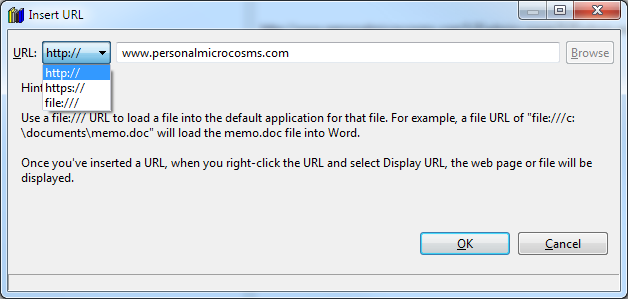
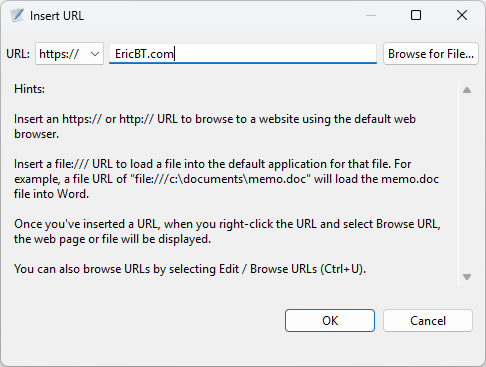
Minor bug fixes, many updates to on-line help

diff --git a/Java Vault/Vault/Help/whatisvault3.html b/Java Vault/Vault/Help/whatisvault3.html
@@ -14,15 +14,15 @@
 	</p>
 	<p>
 		Vault 3 is:
-		<ul>
-			<li><strong>User-Friendly:</strong> Intuitive GUIs make it easy to use Vault 3's features. A comprehensive on-line help system covers all of Vault 3's features.</li>
-			<li><strong>Portable:</strong> Vault 3 currently runs on 64-bit Windows operating systems (Intel/AMD & ARM), 64-bit Linux GTK operating systems (Intel/AMD & ARM), and Android.</li>
-			<li><strong>Fast:</strong> Even on relatively low-performance hardware such as netbook computers.</li>
-			<li><strong>Secure:</strong> Password-protected documents are <a href="encryption.html">encrypted</a> with the AES algorithm and 256-bit keys.</li>
-			<li><strong>Standards-Compliant:</strong> Documents are stored in Unicode format and can be imported and exported in XML format.</li>
-			<li><strong>Open Sourced:</strong> Licensed under the <a href="licenseterms.html">GNU GPL</a>.</li> 
-		</ul>
 	</p>
+	<ul>
+		<li><strong>User-Friendly:</strong> Intuitive GUIs make it easy to use Vault 3's features. A comprehensive on-line help system covers all of Vault 3's features.</li>
+		<li><strong>Portable:</strong> Vault 3 currently runs on 64-bit Windows operating systems (Intel/AMD & ARM), 64-bit Linux GTK operating systems (Intel/AMD & ARM), and Android.</li>
+		<li><strong>Fast:</strong> Even on relatively low-performance hardware such as netbook computers.</li>
+		<li><strong>Secure:</strong> Password-protected documents are <a href="encryption.html">encrypted</a> with the AES algorithm and 256-bit keys.</li>
+		<li><strong>Standards-Compliant:</strong> Documents are stored in Unicode format and can be imported and exported in XML format.</li>
+		<li><strong>Open Sourced:</strong> Licensed under the <a href="licenseterms.html">GNU GPL</a>.</li>
+	</ul>
 	<p>
 		Vault 3 is developed and maintained by Eric Bergman-Terrell, <a href="https://www.EricBT.com">www.EricBT.com</a>.
 	</p>

diff --git a/Java Vault/Vault/Help/gettingstarted.html b/Java Vault/Vault/Help/gettingstarted.html
@@ -36,6 +36,7 @@
 	<h3>Expanding and Contracting Outline Items</h3>
 		<p>
 		Items in the outline window can be expanded and contracted in several ways:
+		</p>
 		<ul>
 			<li>Click the triangle or plus/minus graphic to the left of an outline item's text</li>
 			<li>Type the left and right arrow keys</li>
@@ -44,7 +45,6 @@
 			or click the <img src="artwork/expand.png" alt="Expand toolbar button" />  and
 			<img src="artwork/collapse.png" alt="Collapse toolbar button" /> toolbar buttons.
 		</ul>
-		</p>
 	<h3>Adding and Deleting Outline Items</h3>
 		<p>
 		To add new outline items, click the Add toolbar button <img src="artwork/add.png" alt="add outline item toolbar button" />, or
@@ -63,9 +63,9 @@
 		</p>
 	<h3>Cutting, Pasting, and Copying Outline Items</h3>
 		<p>
-		To cut, paste, and copy outline items, select the <a href="OutlineActions_CutOutlineItemAction.html">Outline / Cut</a>,
-		<a href="OutlineActions_CopyOutlineItemAction.html">Outline / Copy</a>, and 
-		<a href="OutlineActions_PasteOutlineItemAction.html">Outline / Paste</a> menu items, or click the 
+		To cut, paste, and copy outline items, select the <a href="OutlineActions_CutAction.html">Outline / Cut</a>,
+		<a href="OutlineActions_CopyAction.html">Outline / Copy</a>, and
+		<a href="OutlineActions_PasteAction.html">Outline / Paste</a> menu items, or click the
 		<img src="artwork/cut.png" alt="Cut outline item toolbar button" />, 
 		<img src="artwork/copy.png" alt="Copy outline item toolbar button" />, and 
 		<img src="artwork/paste.png" alt="Paste outline item toolbar button" /> toolbar buttons.

diff --git a/Java Vault/Vault/Help/Dialogs_InsertUrlDialog.html b/Java Vault/Vault/Help/Dialogs_InsertUrlDialog.html
@@ -19,10 +19,10 @@
 				URL:
 			</div>
 			<div class="DialogFieldText">
-				Select the kind of URL to insert. The choices are: http:// (web page), https:// (secure web page) and file:/// (disk file).
+				Select the kind of URL to insert. The choices are: https:// (secure web page), http:// (web page) and file:/// (disk file).
 			</div>
 			<div class="DialogFieldLabel">
-				Browse
+				Browse for File
 			</div>
 			<div class="DialogFieldText">
 				Press this button to browse for a file.
@@ -42,7 +42,7 @@
 		</div>
 		<div class="SeeAlsoTitle">See Also:</div>
 		<div class="SeeAlso">
-			<a class="SeeAlsoLink" href="TextActions_DisplayURLAction.html">Edit / Browse URL</a>
+			<a class="SeeAlsoLink" href="TextActions_DisplayUrlAction.html">Edit / Browse URL</a>
 			<a class="SeeAlsoLink" href="TextActions_GoToWebsitesAction.html">Edit / Browse URLs</a>
 		</div>
 	</body>

diff --git a/Java Vault/Vault/Help/Dialogs_FindDialog.html b/Java Vault/Vault/Help/Dialogs_FindDialog.html
@@ -25,13 +25,13 @@
 				Match whole word only
 			</div>
 			<div class="DialogFieldText">
-				Check this check box to match on full words. If this box is checked and you search for "run", text like "running" and "runs" will not be found. 
+				Check this check box to match on full words. If this box is checked, and you search for "run", text like "running" and "runs" will not be found.
 			</div>
 			<div class="DialogFieldLabel">
 				Match case
 			</div>
 			<div class="DialogFieldText">
-				Check this check box for case-sensitive searching. If this box is checked and you search for "run", text like "Run" and "RUN" will not be found.
+				Check this check box for case-sensitive searching. If this box is checked, and you search for "run", text like "Run" and "RUN" will not be found.
 			</div>
 			<div class="DialogFieldLabel">
 				Up

diff --git a/Java Vault/Vault/Help/Dialogs_ReplaceDialog.html b/Java Vault/Vault/Help/Dialogs_ReplaceDialog.html
@@ -31,13 +31,13 @@
 				Match whole word only
 			</div>
 			<div class="DialogFieldText">
-				Check this check box to match on full words. If this box is checked and you search for "run", text like "running" and "runs" will not be found. 
+				Check this check box to match on full words. If this box is checked, and you search for "run", text like "running" and "runs" will not be found.
 			</div>
 			<div class="DialogFieldLabel">
 				Match case
 			</div>
 			<div class="DialogFieldText">
-				Check this check box for case-sensitive searching. If this box is checked and you search for "run", text like "Run" and "RUN" will not be found.
+				Check this check box for case-sensitive searching. If this box is checked, and you search for "run", text like "Run" and "RUN" will not be found.
 			</div>
 			<div class="DialogFieldLabel">
 				Up

diff --git a/Java Vault/Vault/Help/Dialogs_PasswordDialog.html b/Java Vault/Vault/Help/Dialogs_PasswordDialog.html
@@ -7,7 +7,7 @@
 		<div class="TopicTitle">File / Password Dialog</div>
 		<div class="TopicText">
 			<p>
-			Use this dialog box to specify whether or not the current Vault 3 document is password protected. If you chose to password protect the
+			Use this dialog box to specify whether the current Vault 3 document is password protected. If you chose to password protect the
 			document, use this dialog to specify the password.			
 			</p>
 		</div>
@@ -20,7 +20,7 @@
 				Require a password to access {filename}
 			</div>
 			<div class="DialogFieldText">
-				Check this box to password-protect the Vault 3 document. Otherwise clear it.
+				Check this box to password-protect the Vault 3 document. Otherwise, clear it.
 			</div>
 			<div class="DialogFieldLabel">
 				Password:

diff --git a/Java Vault/Vault/Help/OutlineActions_ImportPicturesAction.html b/Java Vault/Vault/Help/OutlineActions_ImportPicturesAction.html
@@ -8,6 +8,7 @@
 		<div class="TopicText">
 			<p>
 			Use this command to add pictures to your Vault 3 document. You can add the following kinds of picture files to Vault 3:
+			</p>
 			<ul>
 				<li>JPEG (*.jpg)</li>
 				<li>GIF (*.gif)</li>
@@ -16,7 +17,8 @@
 				<li>Tagged Image Format (TIFF) Files (*.tif)</li>
 				<li>Windows Metafiles (*.wmf)</li>
 			</ul>
-			Select one or more files and press Open. The pictures will be added at the current position in the outline.
+			<p>
+				Select one or more files and press Open. The pictures will be added at the current position in the outline.
 			</p>
 		</div>
 		<div class="ShortcutsTitle">Shortcuts:</div>

diff --git a/Java Vault/Vault/Help/FileActions_SaveAction.html b/Java Vault/Vault/Help/FileActions_SaveAction.html
@@ -9,7 +9,7 @@
 			<p>
 			Use this command to save the active document to its current name and directory.  When you save a document for the first time, 
 			Vault 3 displays the Save As dialog box so you can name your document.  If you want to change the name and directory of an 
-			existing document before you save it, choose the <a href="SaveAsAction.html">File / Save As</a> command.
+			existing document before you save it, choose the <a href="FileActions_SaveAsAction.html">File / Save As</a> command.
 			</p>
 		</div>
 		<div class="ShortcutsTitle">Shortcuts:</div>

diff --git a/Java Vault/Vault/Help/FileActions_PasswordAction.html b/Java Vault/Vault/Help/FileActions_PasswordAction.html
@@ -7,7 +7,7 @@
 		<div class="TopicTitle">File / Password</div>
 		<div class="TopicText">
 			<p>
-			Use this command to specify whether or not the current Vault 3 document is password protected. See <a href="Dialogs_PasswordDialog.html">File / Password Dialog</a> for further details.			
+			Use this command to specify whether the current Vault 3 document is password protected. See <a href="Dialogs_PasswordDialog.html">File / Password Dialog</a> for further details.
 			</p>
 		</div>
 		<div class="ShortcutsTitle">Shortcuts:</div>

diff --git a/Java Vault/Vault/Help/FileActions_CopyPictureFileAction.html b/Java Vault/Vault/Help/FileActions_CopyPictureFileAction.html
@@ -13,8 +13,8 @@
 		</div>
 		<div class="SeeAlsoTitle">See Also:</div>
 		<div class="SeeAlso">
-			<a class="SeeAlsoLink" href="FileActions_DeletePictureAction.html">File / Delete Photo File</a>
-			<a class="SeeAlsoLink" href="FileActions_RenamePictureAction.html">File / Rename Photo File</a>
+			<a class="SeeAlsoLink" href="FileActions_DeletePictureFileAction.html">File / Delete Photo File</a>
+			<a class="SeeAlsoLink" href="FileActions_RenamePictureFileAction.html">File / Rename Photo File</a>
 		</div>
 	</body>
 </html>

diff --git a/Java Vault/Vault/Help/FileActions_DeletePictureFileAction.html b/Java Vault/Vault/Help/FileActions_DeletePictureFileAction.html
@@ -13,8 +13,8 @@
 		</div>
 		<div class="SeeAlsoTitle">See Also:</div>
 		<div class="SeeAlso">
-			<a class="SeeAlsoLink" href="FileActions_CopyPictureAction.html">File / Copy Photo File</a>
-			<a class="SeeAlsoLink" href="FileActions_RenamePictureAction.html">File / Rename Photo File</a>
+			<a class="SeeAlsoLink" href="FileActions_CopyPictureFileAction.html">File / Copy Photo File</a>
+			<a class="SeeAlsoLink" href="FileActions_RenamePictureFileAction.html">File / Rename Photo File</a>
 		</div>
 	</body>
 </html>

diff --git a/Java Vault/Vault/Help/FileActions_RenamePictureFileAction.html b/Java Vault/Vault/Help/FileActions_RenamePictureFileAction.html
@@ -12,8 +12,8 @@
 		</div>
 		<div class="SeeAlsoTitle">See Also:</div>
 		<div class="SeeAlso">
-			<a class="SeeAlsoLink" href="FileActions_CopyPictureAction.html">File / Copy Photo File</a>
-			<a class="SeeAlsoLink" href="FileActions_DeletePictureAction.html">File / Delete Photo File</a>
+			<a class="SeeAlsoLink" href="FileActions_CopyPictureFileAction.html">File / Copy Photo File</a>
+			<a class="SeeAlsoLink" href="FileActions_DeletePictureFileAction.html">File / Delete Photo File</a>
 		</div>
 	</body>
 </html>
